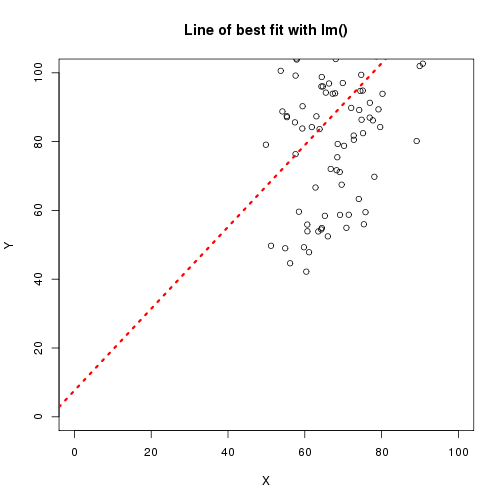
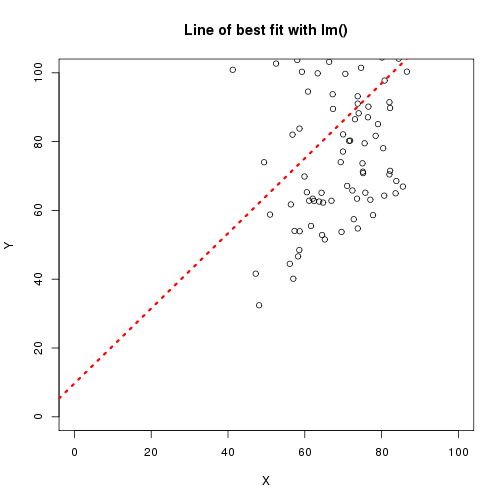
Some fixes

diff --git a/r_course/introToR_Day1.md b/r_course/introToR_Day1.md
@@ -1728,11 +1728,15 @@ mergedDF
 3 patient3   male             2    5.5
 ```
 
-Exercise
-=========
+Time for an exercise!
+========================================================
 
-Answers to Excercise
-====================
+Exercise on data frames and factors can be found [here](matrices_exercise.html)
+
+Answers to exercise.
+========================================================
+
+Answers can data frames and factorsbe found here  [here](matrices_answers.html)
 
 
 Lists
@@ -1959,14 +1963,14 @@ A standard format for this data is a table
 
 |Gene_Name | Sample_1.hi| Sample_2.hi| Sample_3.hi| Sample_4.low| Sample_5.low| Sample_1.low|
 |:---------|-----------:|-----------:|-----------:|------------:|------------:|------------:|
-|Gene_a    |    3.174199|    5.177932|    3.212661|     4.617735|     4.780588|     4.489985|
-|Gene_b    |    4.755421|    4.312101|    6.071387|     4.429389|     4.723128|     4.661068|
-|Gene_c    |    5.175277|    3.348054|    4.827469|     5.179009|     3.079044|     4.965830|
-|Gene_d    |    6.236230|    2.394070|    4.940292|     7.609983|     9.905414|     7.562925|
-|Gene_e    |   10.138816|    9.858983|   10.597042|     3.056918|     3.525076|     2.915933|
-|Gene_f    |    8.301155|    9.073494|    9.465325|     2.804778|     2.008730|     2.711916|
-|Gene_g    |    9.018923|   10.130378|    9.504909|    10.279115|    10.248588|     9.904778|
-|Gene_h    |   11.241904|   10.614692|   11.635784|    10.990924|     9.368824|     7.963178|
+|Gene_a    |    2.927948|    3.924699|    3.763289|     3.203934|     4.840039|     2.162466|
+|Gene_b    |    4.349450|    4.145510|    6.000482|     2.676524|     5.340207|     3.883573|
+|Gene_c    |    4.262356|    4.797306|    4.069108|     3.871567|     4.227387|     4.843627|
+|Gene_d    |    2.769830|    6.027052|    6.380595|     7.853931|     6.166966|     6.885239|
+|Gene_e    |   10.484803|    9.967677|    8.547828|     1.998354|     3.189633|     4.444778|
+|Gene_f    |    9.703483|    9.002069|   11.267906|     3.241450|     1.819404|     3.863946|
+|Gene_g    |   10.117282|    8.386314|   10.263753|    11.539749|    11.914217|    10.056546|
+|Gene_h    |   11.204062|   10.895262|   10.862079|    11.996997|    10.517679|     9.229927|
 
 Data from text file
 =========================================================
@@ -1981,10 +1985,10 @@ Table[1:4,1:3]
 
 ```
   Gene_Name Sample_1.hi Sample_2.hi
-1    Gene_a    3.174199    5.177932
-2    Gene_b    4.755422    4.312102
-3    Gene_c    5.175277    3.348054
-4    Gene_d    6.236230    2.394070
+1    Gene_a    2.927948    3.924699
+2    Gene_b    4.349450    4.145510
+3    Gene_c    4.262356    4.797306
+4    Gene_d    2.769830    6.027052
 ```
 
 Here we have provided two arguments. 
@@ -2006,10 +2010,10 @@ Table[1:4,1:3]
 
 ```
        Sample_1.hi Sample_2.hi Sample_3.hi
-Gene_a    3.174199    5.177932    3.212661
-Gene_b    4.755422    4.312102    6.071387
-Gene_c    5.175277    3.348054    4.827469
-Gene_d    6.236230    2.394070    4.940292
+Gene_a    2.927948    3.924699    3.763289
+Gene_b    4.349450    4.145510    6.000482
+Gene_c    4.262356    4.797306    4.069108
+Gene_d    2.769830    6.027052    6.380595
 ```
 
 Data from text files
@@ -3137,7 +3141,7 @@ cor(x,z)
 ```
 
 ```
-[1] -0.01585582
+[1] -0.07420254
 ```
 ***
 ![plot of chunk unnamed-chunk-202](introToR_Day1-figure/unnamed-chunk-202-1.png) 
@@ -3151,8 +3155,8 @@ Often we wish to apply correlation analysis to all columns or rows in a matrix i
 
 | Sample_1.hi| Sample_2.hi| Sample_3.hi| Sample_4.low| Sample_5.low| Sample_1.low|
 |-----------:|-----------:|-----------:|------------:|------------:|------------:|
-|    3.174199|    5.177932|    3.212661|     4.617735|     4.780588|     4.489985|
-|    4.755421|    4.312101|    6.071387|     4.429389|     4.723128|     4.661068|
+|    2.927948|    3.924699|    3.763289|     3.203934|     4.840039|     2.162466|
+|    4.349450|    4.145510|    6.000482|     2.676524|     5.340207|     3.883573|
 
 
 ```r
@@ -3161,8 +3165,8 @@ cor(minRep)[1:2,2:5]
 
 ```
             Sample_2.hi Sample_3.hi Sample_4.low Sample_5.low
-Sample_1.hi   0.8418275   0.9655272    0.4019570    0.2982829
-Sample_2.hi   1.0000000   0.9075022    0.2521513    0.1060336
+Sample_1.hi   0.9347355   0.8978236    0.3707387    0.2973749
+Sample_2.hi   1.0000000   0.8935865    0.4422632    0.2707843
 ```
 
 Correlation (Continued)
@@ -3211,8 +3215,8 @@ rnorm(10,mean=8,sd=3)
 ```
 
 ```
- [1]  4.436613  9.858306 10.197935  2.716453  4.283233  9.104877  3.235935
- [8]  7.745258  9.261603  9.381697
+ [1] 10.333597  8.804428 13.327816 11.447298  9.641334 12.633379  8.661551
+ [8]  7.786121  8.393355  4.249878
 ```
 We can also use these functions to interrogate values assuming a normal distribution for the data.
 
@@ -3501,7 +3505,7 @@ lm(formula = Y ~ X, data = lmExample)
 
 Coefficients:
 (Intercept)            X  
-      7.622        1.189  
+      9.688        1.091  
 ```
 
 Printing the result from lm() shows the call to lm() and the coefficients including the intercept.
@@ -3542,18 +3546,18 @@ lm(formula = Y ~ X, data = lmExample)
 
 Residuals:
     Min      1Q  Median      3Q     Max 
--41.299 -17.255   3.016  16.713  38.495 
+-36.065 -19.928  -5.585  21.862  46.225 
 
 Coefficients:
             Estimate Std. Error t value Pr(>|t|)    
-(Intercept)   7.6221    16.1166   0.473    0.637    
-X             1.1892     0.2289   5.195 1.12e-06 ***
+(Intercept)   9.6882    17.4559   0.555     0.58    
+X             1.0907     0.2464   4.427 2.48e-05 ***
 ---
 Signif. codes:  0 '***' 0.001 '**' 0.01 '*' 0.05 '.' 0.1 ' ' 1
 
-Residual standard error: 22.12 on 98 degrees of freedom
-Multiple R-squared:  0.2159,	Adjusted R-squared:  0.2079 
-F-statistic: 26.98 on 1 and 98 DF,  p-value: 1.116e-06
+Residual standard error: 24.61 on 98 degrees of freedom
+Multiple R-squared:  0.1667,	Adjusted R-squared:  0.1581 
+F-statistic:  19.6 on 1 and 98 DF,  p-value: 2.485e-05
 ```
 
 
@@ -3568,18 +3572,18 @@ lm(formula = Y ~ X, data = lmExample)
 
 Residuals:
     Min      1Q  Median      3Q     Max 
--41.299 -17.255   3.016  16.713  38.495 
+-36.065 -19.928  -5.585  21.862  46.225 
 
 Coefficients:
             Estimate Std. Error t value Pr(>|t|)    
-(Intercept)   7.6221    16.1166   0.473    0.637    
-X             1.1892     0.2289   5.195 1.12e-06 ***
+(Intercept)   9.6882    17.4559   0.555     0.58    
+X             1.0907     0.2464   4.427 2.48e-05 ***
 ---
 Signif. codes:  0 '***' 0.001 '**' 0.01 '*' 0.05 '.' 0.1 ' ' 1
 
-Residual standard error: 22.12 on 98 degrees of freedom
-Multiple R-squared:  0.2159,	Adjusted R-squared:  0.2079 
-F-statistic: 26.98 on 1 and 98 DF,  p-value: 1.116e-06
+Residual standard error: 24.61 on 98 degrees of freedom
+Multiple R-squared:  0.1667,	Adjusted R-squared:  0.1581 
+F-statistic:  19.6 on 1 and 98 DF,  p-value: 2.485e-05
 ```
 
 ***
@@ -3593,7 +3597,7 @@ To retrieve the residuals we can access the slot or use the resid() function.
 
 ```
    Min. 1st Qu.  Median    Mean 3rd Qu.    Max. 
--41.300 -17.260   3.016   0.000  16.710  38.490 
+-36.060 -19.930  -5.585   0.000  21.860  46.220 
 ```
 
 ```r
@@ -3602,7 +3606,7 @@ To retrieve the residuals we can access the slot or use the resid() function.
 
 ```
    Min. 1st Qu.  Median    Mean 3rd Qu.    Max. 
--41.300 -17.260   3.016   0.000  16.710  38.490 
+-36.060 -19.930  -5.585   0.000  21.860  46.220 
 ```
 Ideally you would want your residuals to be normally distributed around 0 indicating a good correspondence between predicted and actual values.
 
@@ -3617,18 +3621,18 @@ lm(formula = Y ~ X, data = lmExample)
 
 Residuals:
     Min      1Q  Median      3Q     Max 
--41.299 -17.255   3.016  16.713  38.495 
+-36.065 -19.928  -5.585  21.862  46.225 
 
 Coefficients:
             Estimate Std. Error t value Pr(>|t|)    
-(Intercept)   7.6221    16.1166   0.473    0.637    
-X             1.1892     0.2289   5.195 1.12e-06 ***
+(Intercept)   9.6882    17.4559   0.555     0.58    
+X             1.0907     0.2464   4.427 2.48e-05 ***
 ---
 Signif. codes:  0 '***' 0.001 '**' 0.01 '*' 0.05 '.' 0.1 ' ' 1
 
-Residual standard error: 22.12 on 98 degrees of freedom
-Multiple R-squared:  0.2159,	Adjusted R-squared:  0.2079 
-F-statistic: 26.98 on 1 and 98 DF,  p-value: 1.116e-06
+Residual standard error: 24.61 on 98 degrees of freedom
+Multiple R-squared:  0.1667,	Adjusted R-squared:  0.1581 
+F-statistic:  19.6 on 1 and 98 DF,  p-value: 2.485e-05
 ```
 
 The **R-squared** value represents the proportion of variability in the response variable that is explained by the explanatory variable.
@@ -3650,18 +3654,18 @@ lm(formula = Y ~ X, data = lmExample)
 
 Residuals:
     Min      1Q  Median      3Q     Max 
--41.299 -17.255   3.016  16.713  38.495 
+-36.065 -19.928  -5.585  21.862  46.225 
 
 Coefficients:
             Estimate Std. Error t value Pr(>|t|)    
-(Intercept)   7.6221    16.1166   0.473    0.637    
-X             1.1892     0.2289   5.195 1.12e-06 ***
+(Intercept)   9.6882    17.4559   0.555     0.58    
+X             1.0907     0.2464   4.427 2.48e-05 ***
 ---
 Signif. codes:  0 '***' 0.001 '**' 0.01 '*' 0.05 '.' 0.1 ' ' 1
 
-Residual standard error: 22.12 on 98 degrees of freedom
-Multiple R-squared:  0.2159,	Adjusted R-squared:  0.2079 
-F-statistic: 26.98 on 1 and 98 DF,  p-value: 1.116e-06
+Residual standard error: 24.61 on 98 degrees of freedom
+Multiple R-squared:  0.1667,	Adjusted R-squared:  0.1581 
+F-statistic:  19.6 on 1 and 98 DF,  p-value: 2.485e-05
 ```
 
 The results from linear models also provides a measure of significance for a variable not being relevant in **Pr(>|t|)** column. A low p-value suggests the variable is useful in prediction of the dependent variable.
